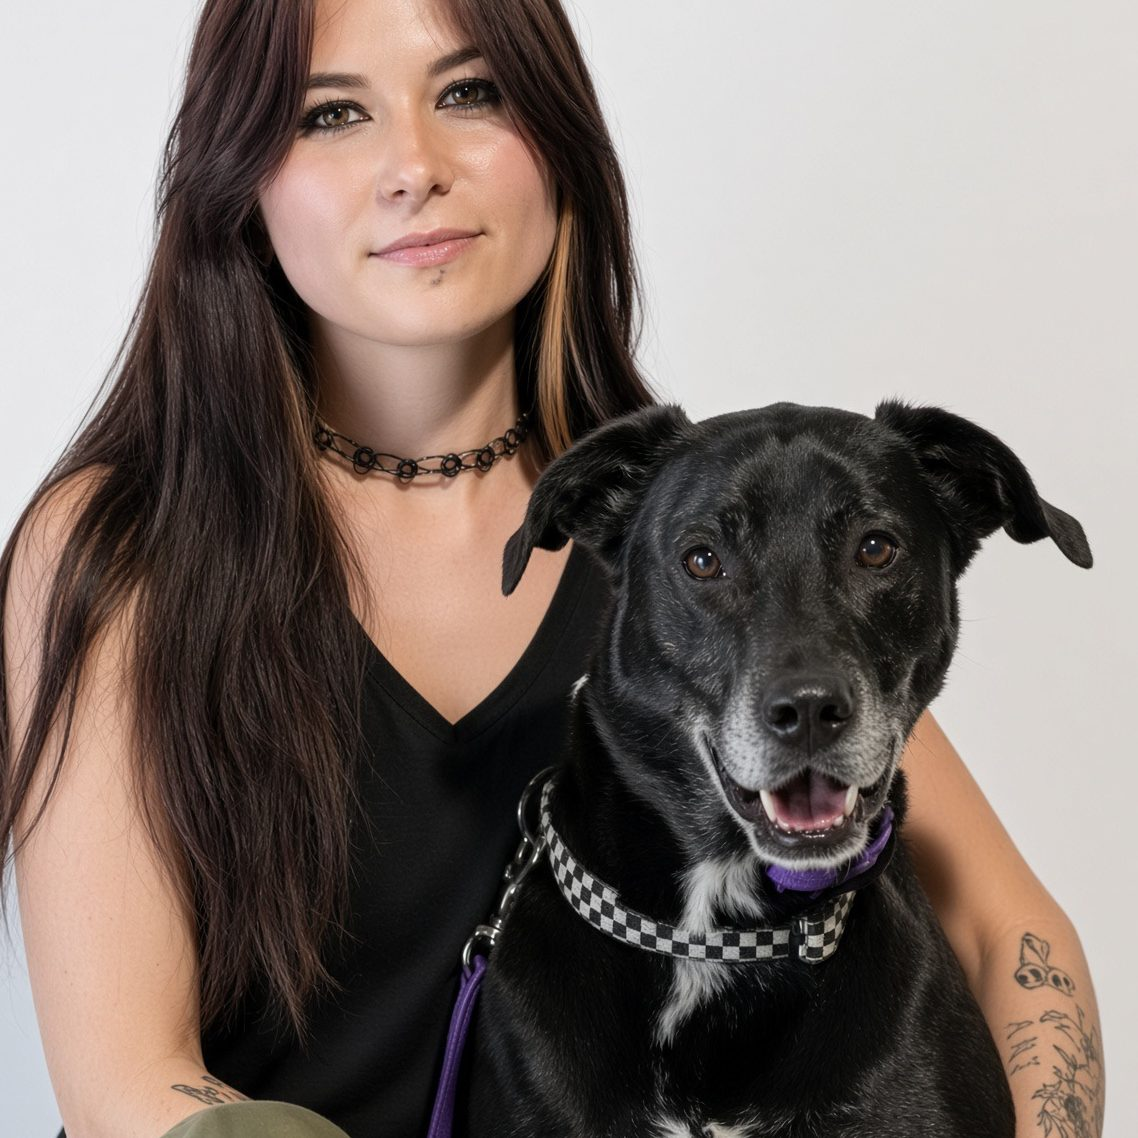
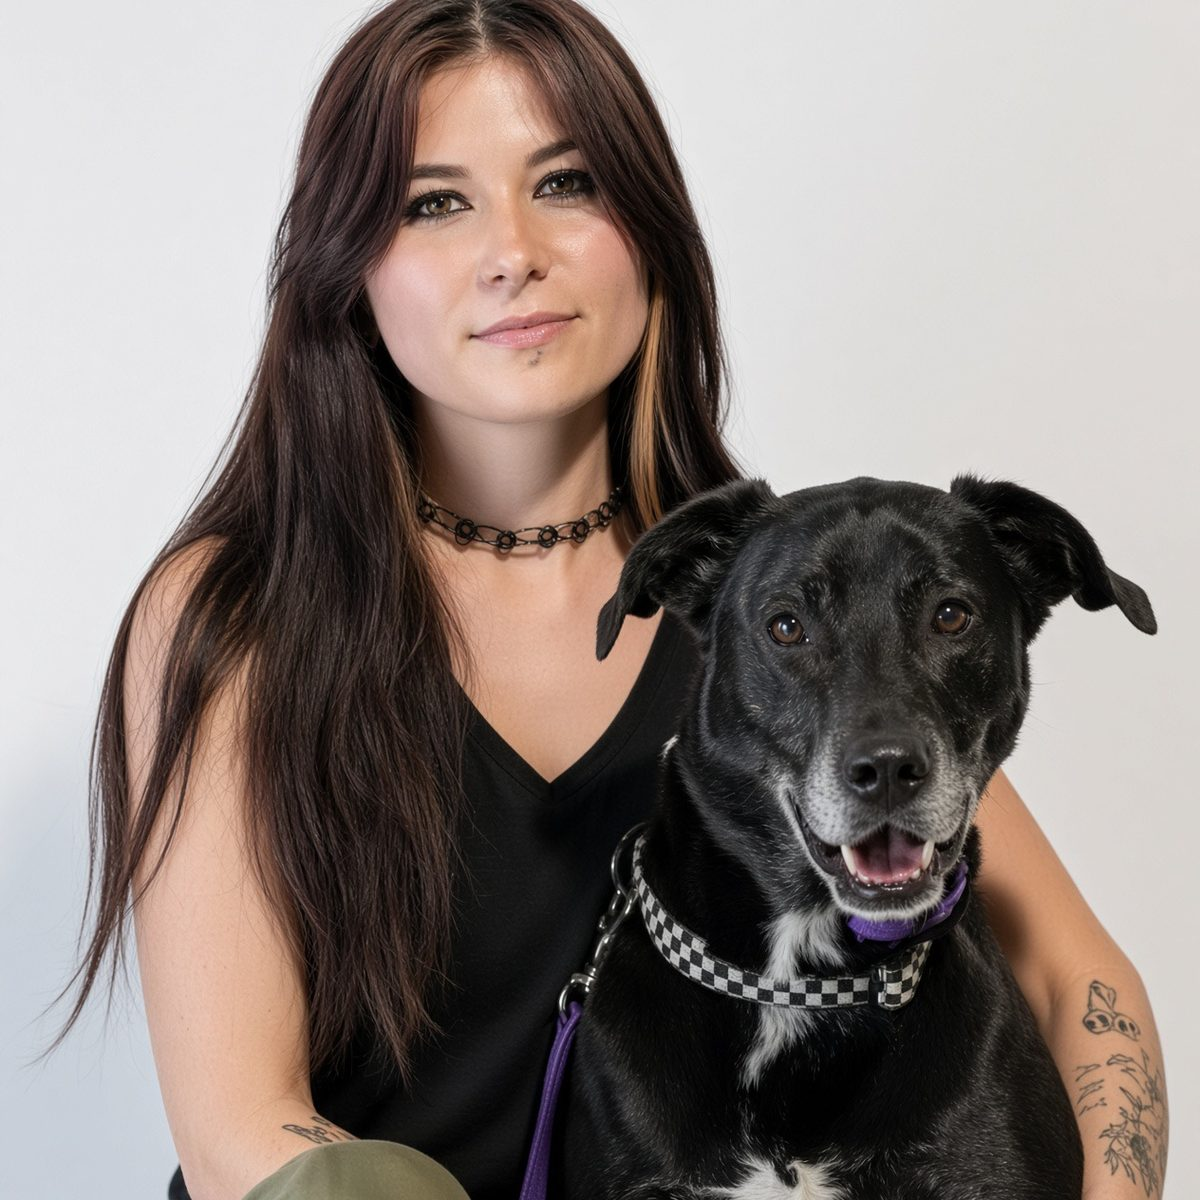
fix: new Katy + Greg photos, remove inline object-position overrides (#4)
* fix: replace team-3.jpg with better-cropped photo

* fix: replace team-4.jpg with better-cropped photo

* fix: remove inline object-position overrides from Katy and Greg (new photos handle framing)

diff --git a/index.html b/index.html
@@ -327,12 +327,12 @@ a{color:var(--blue)}
           <p class="bio">Troy is a Marine Corps veteran who served as a Military Dog Handler out of Jacksonville, NC, including an assignment with the Secret Service protecting President George H.W. Bush with explosive-detection dogs. After retiring from the Marines, he and Kati founded Dog Training Elite Wilmington to train dogs alongside the people they live with.</p>
         </article>
         <article class="member">
-          <div class="circle"><img src="images/team-3.jpg" alt="Katy, Lead Trainer at Dog Training Elite Wilmington" style="object-position:center top"></div>
+          <div class="circle"><img src="images/team-3.jpg" alt="Katy, Lead Trainer at Dog Training Elite Wilmington"></div>
           <h3>Katy</h3>
           <p class="role">Lead Trainer</p>
         </article>
         <article class="member">
-          <div class="circle"><img src="images/team-4.jpg" alt="Greg, Head of Client Relations at Dog Training Elite Wilmington" style="object-position:30% top"></div>
+          <div class="circle"><img src="images/team-4.jpg" alt="Greg, Head of Client Relations at Dog Training Elite Wilmington"></div>
           <h3>Greg</h3>
           <p class="role">Head of Client Relations</p>
         </article>
